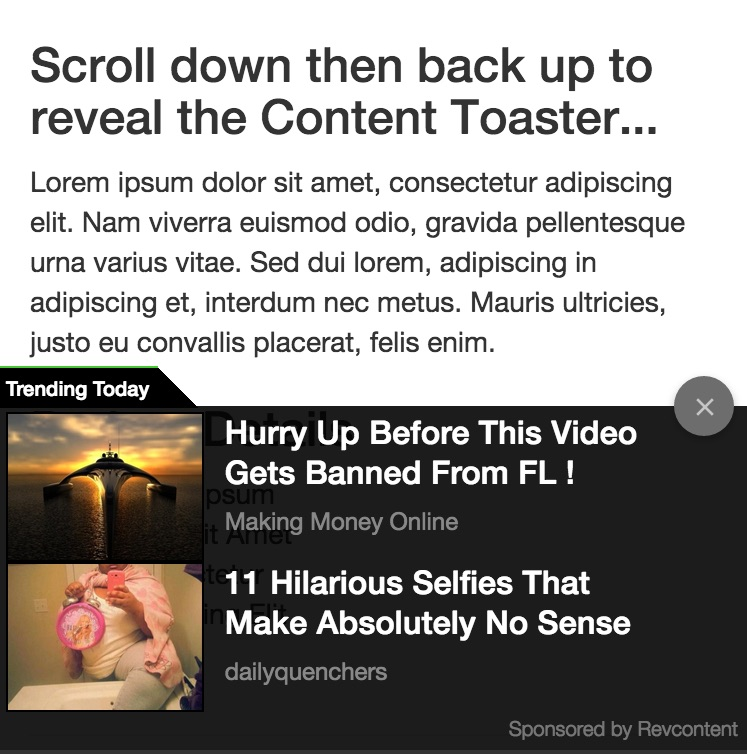
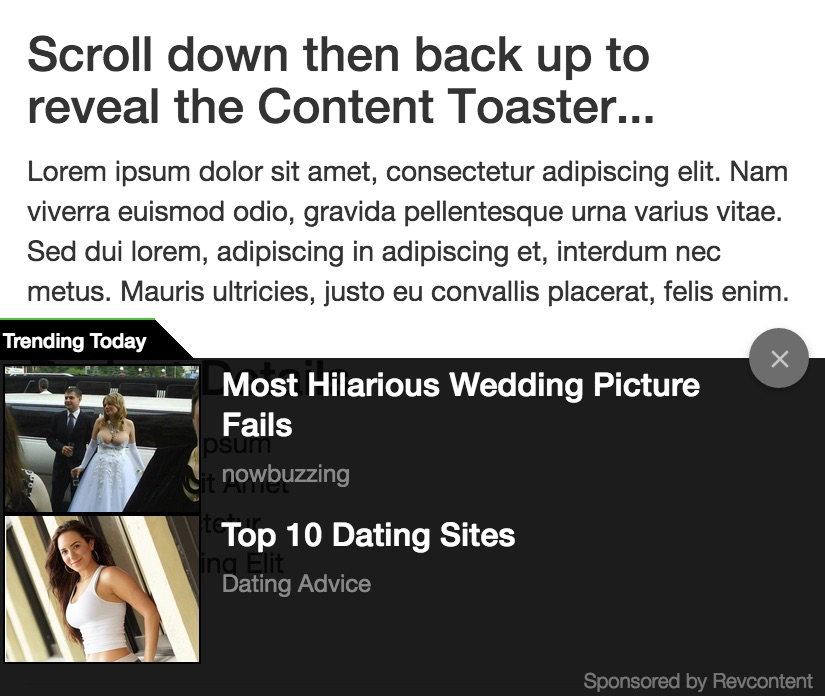
update preview image and example widget

diff --git a/htdocs/showcase/revcontent-api-showcase-toaster-1.0/index.html b/htdocs/showcase/revcontent-api-showcase-toaster-1.0/index.html
@@ -150,8 +150,8 @@
             sponsored: 2,
             api_key: '3eeb00d786e9a77bbd630595ae0be7e9aa7aff3b',
             pub_id: 945,
-            widget_id: 6181,
-            domain: 'apiexamples.powr.com'
+            widget_id: 400,
+            domain: 'money.powr.com'
         });
 
     </script>
